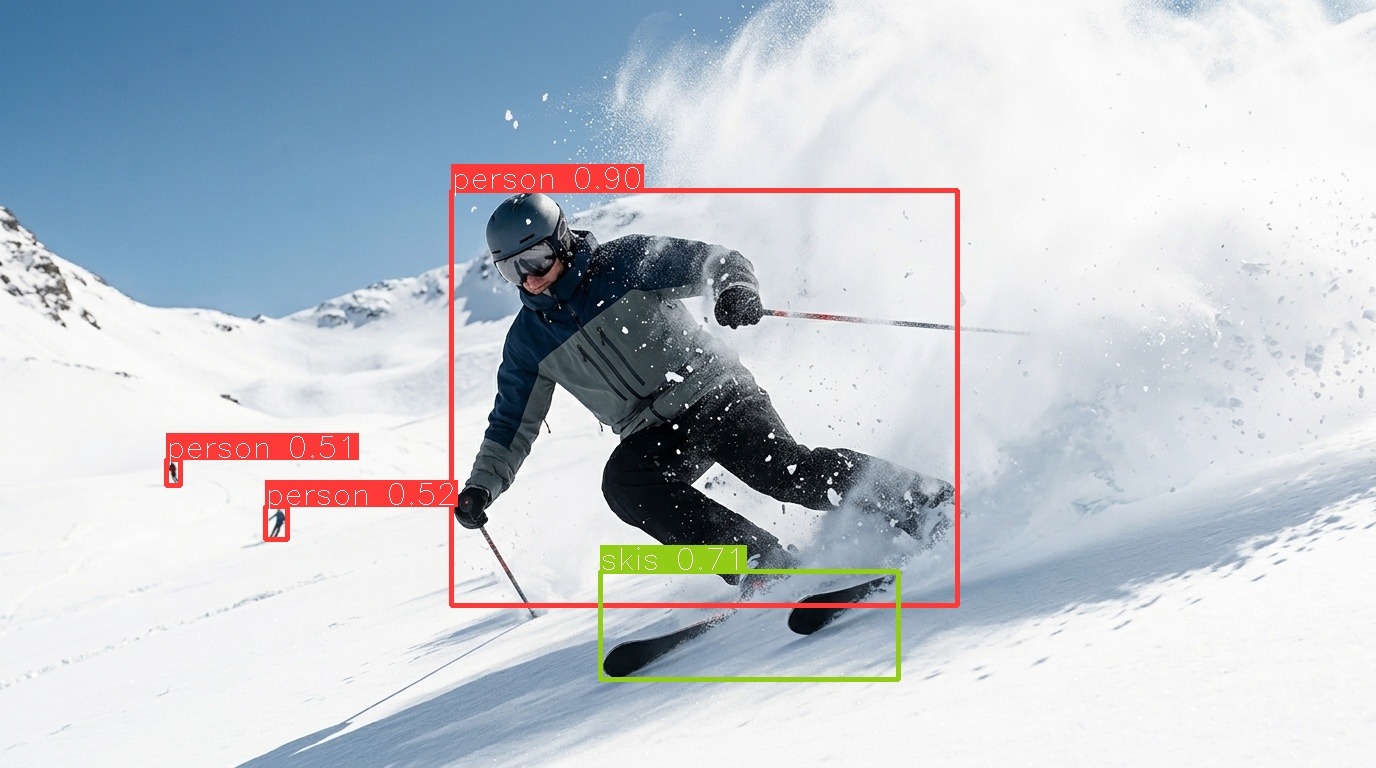
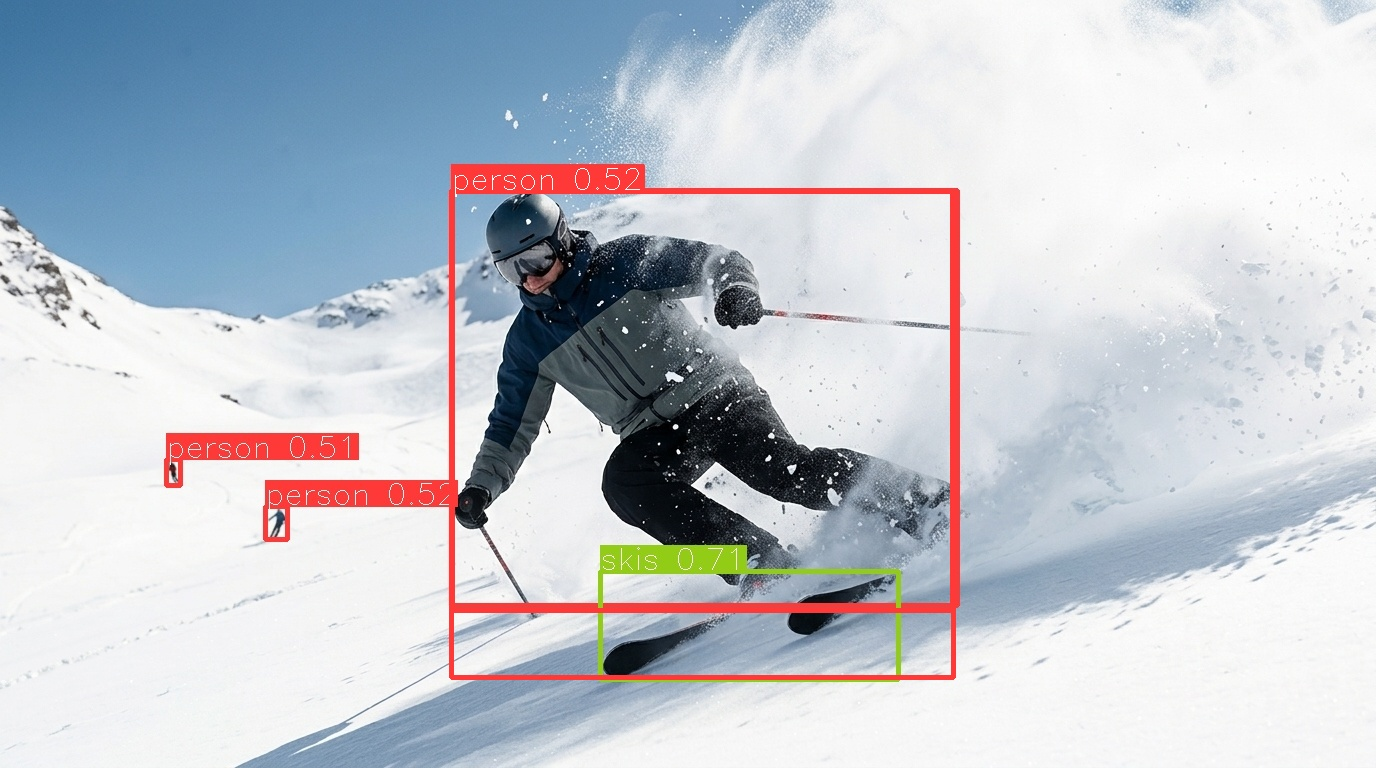
docs: update the skier demo and record how it was made
Replace docs/assets/nitid-demo.jpg with the new detection render and record
its source in docs/brand.md: an AI-generated image, detected with
`nitid predict source=nitid-demo.jpg model=model1s` and default settings.

Claude-Session: https://claude.ai/code/session_01RJX2shyYrU3nnvyQWEEG4P

Changed region(s): [[0.3125, 0.25, 0.7188, 0.9062], [0.3125, 0.2188, 0.4688, 0.2812]]

diff --git a/docs/brand.md b/docs/brand.md
@@ -31,7 +31,7 @@ use the light variant instead.
 
 | Asset | Source |
 |-------|--------|
-| [`assets/nitid-demo.jpg`](assets/nitid-demo.jpg) | AI-generated image commissioned for nitid; no photographic source or third-party rights. `task="detect"` output |
+| [`assets/nitid-demo.jpg`](assets/nitid-demo.jpg) | AI-generated image; no photographic source or third-party rights. Detection with `nitid predict source=nitid-demo.jpg model=model1s` (default settings) |
 | [`assets/nitid-demo-street.jpg`](assets/nitid-demo-street.jpg) | Frame at 00:38 of [DiagonalCrosswalkYongeDundas.webm](https://commons.wikimedia.org/wiki/File:DiagonalCrosswalkYongeDundas.webm) by Raysonho (Wikimedia Commons, CC0). Left: `task="detect"`; right: `task="segment"`, both `model1s`, `conf=0.5` |
 | [`assets/nitid-track.gif`](assets/nitid-track.gif) | 00:33–00:38 of the same CC0 video. `model1s` detection with `track()` (ByteTrack), `vid_stride=2`, 600 px wide at 8 fps |
 
